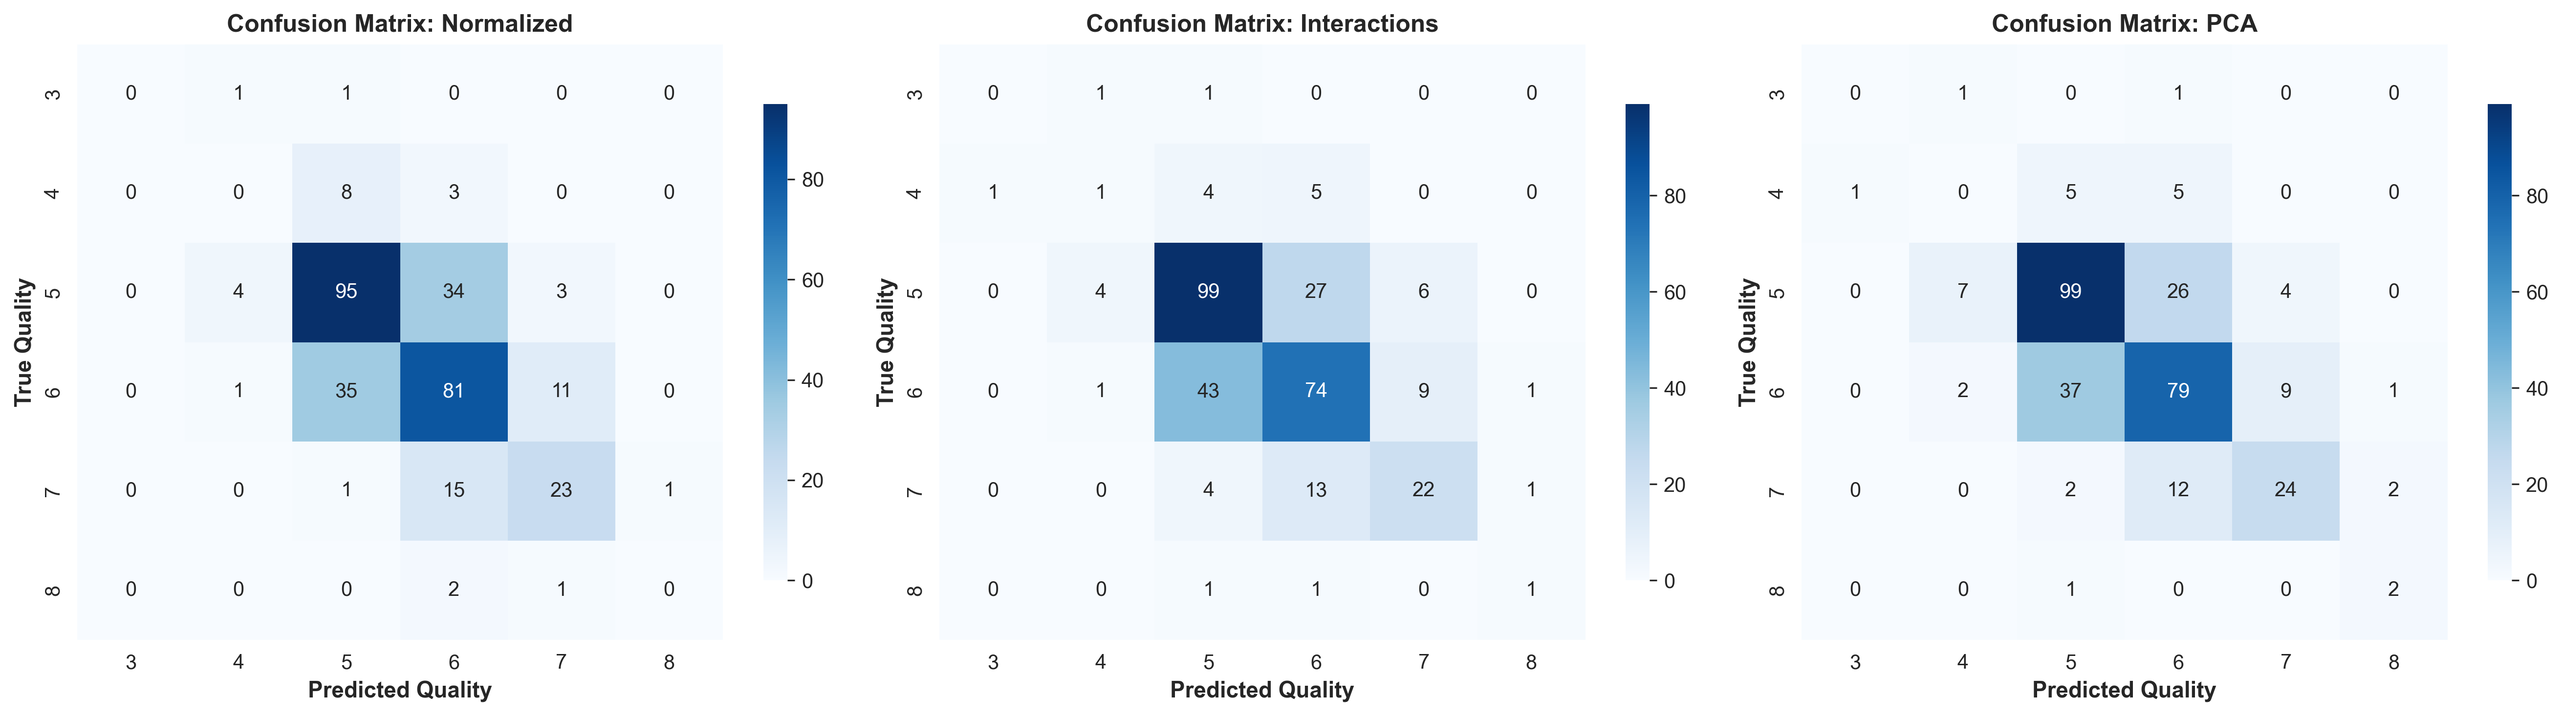
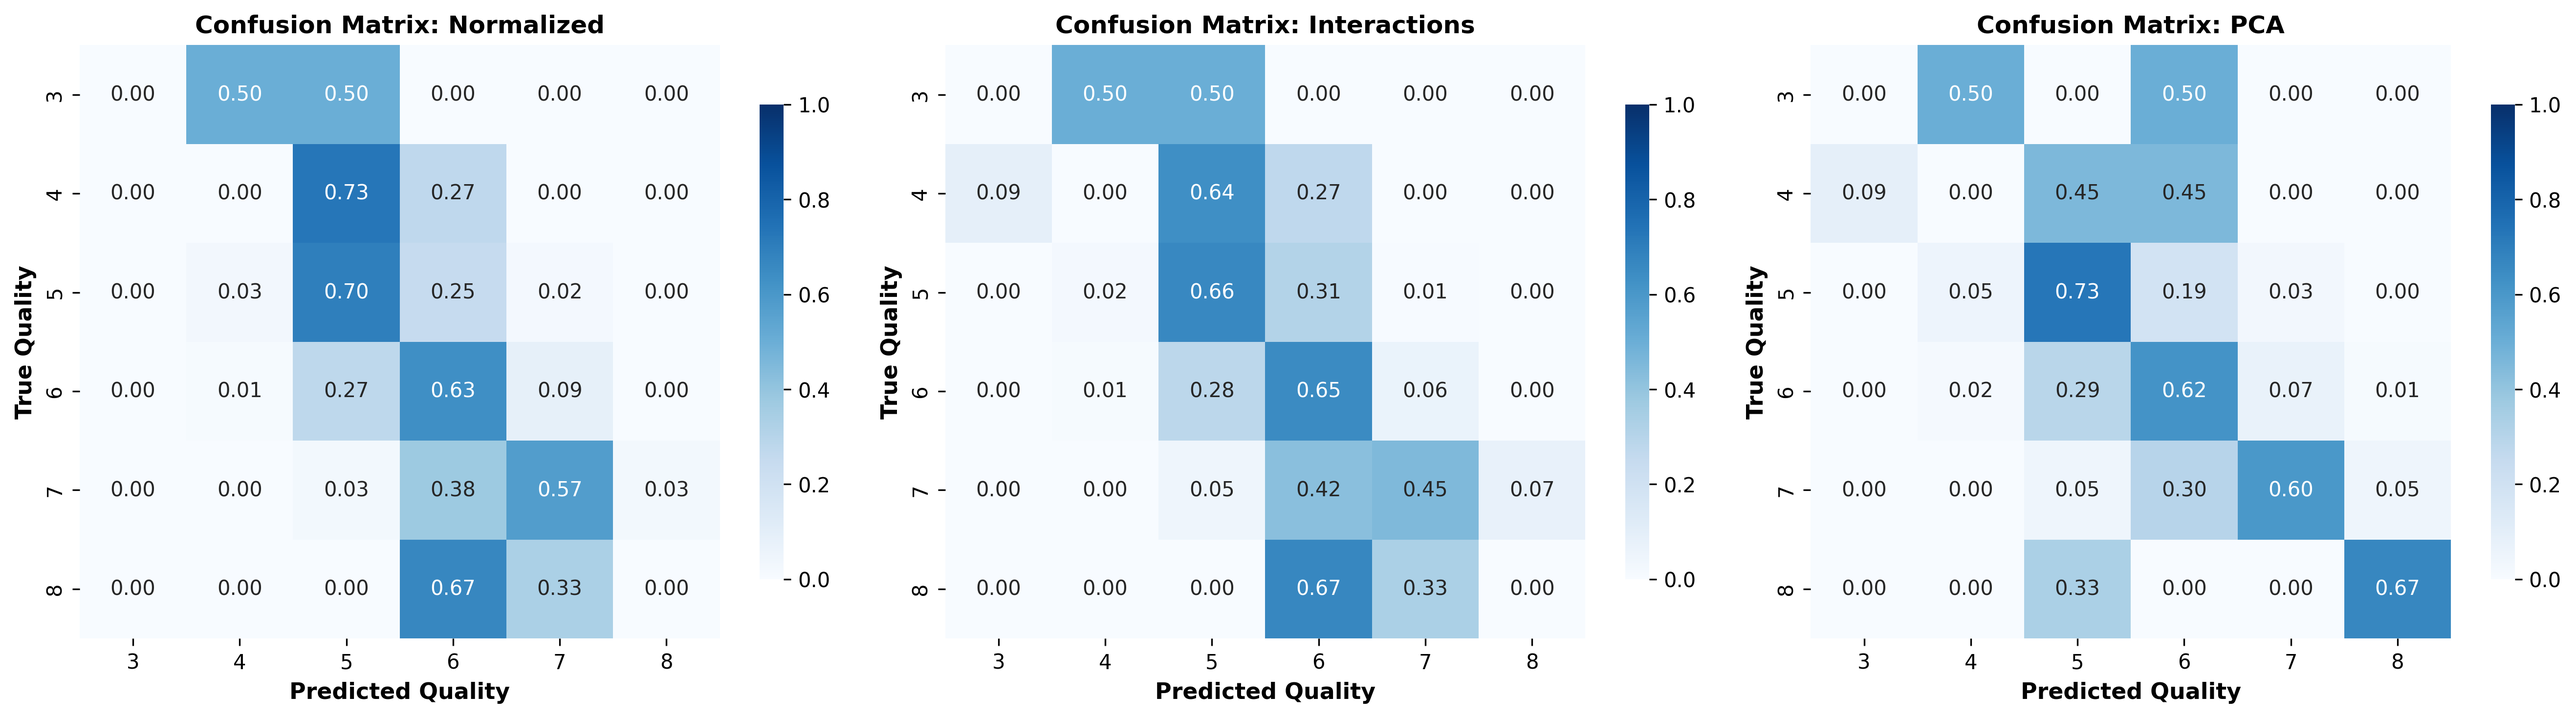
code de svm con mas kernels

diff --git a/report/svm_model_report.md b/report/svm_model_report.md
@@ -32,17 +32,26 @@ $$y_i(\boldsymbol{w}^T \boldsymbol{\phi}(\boldsymbol{x}_i) + b) \geq 1 - \xi_i, 
 
 where $C > 0$ is a regularization parameter that controls the trade-off between maximizing the margin and minimizing classification errors.
 
-**Implementation:** We implement SVM using scikit-learn's `SVC` class with a radial basis function (RBF) kernel, defined as $k(\boldsymbol{x}, \boldsymbol{x}') = \exp(-\gamma \|\boldsymbol{x} - \boldsymbol{x}'\|^2)$, which allows for non-linear decision boundaries. For our multi-class wine quality classification problem (6 classes: quality scores 3-8), we use the one-versus-rest (OvR) strategy, training one binary classifier per class.
+We implement SVM using scikit-learn's `SVC` class, evaluating multiple kernel functions to determine the optimal transformation for our data. For our multi-class wine quality classification problem (6 classes: quality scores 3-8), we use the one-versus-rest (OvR) strategy, training one binary classifier per class.
 
 We evaluate SVM performance on three preprocessed datasets: (1) the normalized baseline dataset (11 features), (2) the dataset with interaction features (18 features), and (3) the PCA-transformed dataset (9 principal components retaining 95% variance). For each dataset, we perform an 80-20 train-test split using stratified sampling to preserve class distribution.
 
 Hyperparameter tuning is performed using grid search with 5-fold cross-validation. For each parameter combination, the model is trained on 4 folds and validated on the remaining fold, repeating this process 5 times. The combination yielding the highest average cross-validation macro F1-score is selected as optimal. Grid search optimizes for macro F1-score rather than accuracy to address class imbalance in the dataset. Macro F1-score gives equal weight to all classes, ensuring the model performs well across both majority and minority classes, rather than optimizing primarily for classes 5 and 6 which contain most of the data.
 
-The regularization parameter $C$ is evaluated over $\{0.1, 1, 10, 100\}$, controlling the trade-off between maximizing the margin and minimizing classification errors. Larger values (e.g., 100) penalize misclassifications more heavily, resulting in a smaller margin but fewer training errors, while smaller values (e.g., 0.1) prioritize a larger margin for better generalization.
+The hyperparameters tested using grid search cross-validation are outlined in the table below. We evaluate four kernel types: linear, polynomial, radial basis function (RBF), and sigmoid. The linear kernel creates linear decision boundaries, while polynomial kernels (with degrees 2 and 3) capture polynomial relationships. The RBF kernel, defined as $k(\boldsymbol{x}, \boldsymbol{x}') = \exp(-\gamma \|\boldsymbol{x} - \boldsymbol{x}'\|^2)$, allows for non-linear decision boundaries and is particularly effective for complex, non-linearly separable data. The sigmoid kernel uses a hyperbolic tangent function and can capture non-linear patterns similar to neural networks.
 
-The kernel parameter $\gamma$ is evaluated over $\{\text{'scale'}, \text{'auto'}, 0.001, 0.01, 0.1, 1\}$, determining the influence of training examples on the decision boundary. When $\gamma = \text{'scale'}$, it is computed as $\gamma = 1/(n_{\text{features}} \times \text{var}(X))$, adapting to both dimensionality and data scale. When $\gamma = \text{'auto'}$, it is set to $\gamma = 1/n_{\text{features}}$, considering only the number of features. Numeric values are fixed, with larger values (e.g., 1) creating more complex, localized boundaries and smaller values (e.g., 0.001) producing smoother, more generalized boundaries.
+The regularization parameter $C$ controls the trade-off between maximizing the margin and minimizing classification errors. Larger values (e.g., 100) penalize misclassifications more heavily, resulting in a smaller margin but fewer training errors, while smaller values (e.g., 0.1) prioritize a larger margin for better generalization. The kernel parameter $\gamma$ (for polynomial, RBF, and sigmoid kernels) determines the influence of training examples on the decision boundary. When $\gamma = \text{'scale'}$, it is computed as $\gamma = 1/(n_{\text{features}} \times \text{var}(X))$, adapting to both dimensionality and data scale. When $\gamma = \text{'auto'}$, it is set to $\gamma = 1/n_{\text{features}}$, considering only the number of features. Numeric values are fixed, with larger values (e.g., 1) creating more complex, localized boundaries and smaller values (e.g., 0.001) producing smoother, more generalized boundaries. For polynomial kernels, the degree parameter controls the polynomial order (2 or 3).
 
-This parameter grid results in $4 \times 6 = 24$ unique combinations evaluated per dataset. The best model from cross-validation is evaluated on the held-out test set. Performance is assessed using accuracy, macro F1-score, precision, recall, and confusion matrices, with both test set and cross-validation results (mean macro F1-score ± standard deviation) reported to assess model stability.
+**SVM Hyperparameter**
+
+| Hyperparameter | Definition/Purpose | Tested Values |
+|---------------|-------------------|---------------|
+| kernel | Type of kernel function used for decision boundaries. Linear creates linear boundaries, polynomial captures polynomial relationships, RBF allows non-linear boundaries, sigmoid uses hyperbolic tangent. | 'linear', 'poly', 'rbf', 'sigmoid' |
+| C | Regularization parameter controlling the trade-off between maximizing the margin and minimizing classification errors. Larger values penalize misclassifications more heavily. | 0.1, 1, 10, 100 |
+| gamma | Kernel coefficient determining the influence of training examples on the decision boundary (for poly, rbf, sigmoid kernels). 'scale' adapts to dimensionality and data scale, 'auto' considers only number of features. | 'scale', 'auto', 0.001, 0.01, 0.1, 1 (for rbf); 'scale', 'auto', 0.001, 0.01, 0.1 (for poly, sigmoid) |
+| degree | Polynomial degree for polynomial kernel. Higher degrees create more complex decision boundaries. | 2, 3 (for poly kernel only) |
+
+This parameter grid evaluates multiple kernel types with their respective hyperparameters, resulting in hundreds of unique combinations per dataset. The best model from cross-validation is evaluated on the held-out test set. Performance is assessed using accuracy, macro F1-score, precision, recall, and confusion matrices, with both test set and cross-validation results (mean macro F1-score ± standard deviation) reported to assess model stability.
 
 # Section 4: Results and Analysis
 
@@ -52,17 +61,19 @@ We evaluate SVM performance across three preprocessed datasets to assess the imp
 
 **Table 1: SVM Performance Comparison Across Datasets**
 
-| Dataset | Accuracy | Macro F1-Score | CV Macro F1 (mean ± std) | Best C | Best gamma |
-|---------|----------|----------------|---------------------------|--------|------------|
-| Normalized | 0.622 | 0.316 | 0.363 ± 0.061 | 10 | 0.1 |
-| PCA | 0.638 | 0.410 | 0.364 ± 0.081 | 100 | auto |
-| Interactions | 0.616 | 0.383 | 0.349 ± 0.081 | 100 | 0.1 |
+| Dataset | Accuracy | Macro F1-Score | CV Macro F1 (mean ± std) | Best Kernel | Best C | Best gamma | Best degree |
+|---------|----------|----------------|---------------------------|-------------|--------|------------|-------------|
+| Normalized | 0.622 | 0.316 | 0.363 ± 0.061 | rbf | 10 | 0.1 | N/A |
+| PCA | 0.638 | 0.410 | 0.364 ± 0.081 | rbf | 100 | auto | N/A |
+| Interactions | 0.597 | 0.299 | 0.355 ± 0.053 | poly | 10 | auto | 2 |
 
-The PCA-transformed dataset achieves the highest macro F1-score of 0.410, followed by the interactions dataset (0.383) and the normalized baseline (0.316). The macro F1-score calculates the F1-score for each class independently and then averages them with equal weight, making it particularly important for imbalanced datasets as it ensures all classes contribute equally to the overall metric. This optimization strategy prioritizes balanced performance across all quality classes rather than maximizing accuracy on the majority classes (5 and 6).
+We evaluated four kernel types (linear, polynomial, RBF, and sigmoid) for each dataset. The optimal kernel varied across datasets: RBF kernel achieved the best performance for both the normalized and PCA datasets, while the polynomial kernel (degree 2) performed best for the interactions dataset. This suggests that different feature representations benefit from different kernel transformations. The RBF kernel's ability to create flexible non-linear decision boundaries is particularly effective for the normalized and PCA datasets, while the polynomial kernel's capacity to capture polynomial relationships between features proves more suitable for the interactions dataset, which explicitly encodes multiplicative feature interactions.
 
-While PCA achieves the best macro F1-score, it also shows higher variability in cross-validation results (standard deviation of 0.081). The normalized dataset provides the most stable performance (standard deviation of 0.061), though with lower macro F1-score. The interactions dataset shows intermediate performance in both macro F1-score and stability (standard deviation of 0.081).
+The PCA-transformed dataset achieves the highest macro F1-score of 0.410, followed by the normalized baseline (0.316) and the interactions dataset (0.299). The macro F1-score calculates the F1-score for each class independently and then averages them with equal weight, making it particularly important for imbalanced datasets as it ensures all classes contribute equally to the overall metric. This optimization strategy prioritizes balanced performance across all quality classes rather than maximizing accuracy on the majority classes (5 and 6).
 
-The optimal hyperparameters vary across datasets: PCA and interactions both benefit from stronger regularization ($C=100$), while normalized performs best with moderate regularization ($C=10$). For the $\gamma$ parameter, normalized uses $\gamma=0.1$, interactions uses $\gamma=0.1$, and PCA uses $\gamma=\text{'auto'}$, which automatically sets $\gamma = 1/n_{\text{features}}$ based on the number of features. A detailed analysis of class-wise performance, including confusion matrices, is provided in the appendix (Figure A1).
+While PCA achieves the best macro F1-score, it also shows higher variability in cross-validation results (standard deviation of 0.081). The normalized dataset provides the most stable performance (standard deviation of 0.061), though with lower macro F1-score. The interactions dataset shows the most stable cross-validation performance (standard deviation of 0.053), but achieves the lowest macro F1-score.
+
+The optimal hyperparameters vary across datasets: PCA benefits from stronger regularization ($C=100$), while normalized and interactions perform best with moderate regularization ($C=10$). For the $\gamma$ parameter, normalized uses $\gamma=0.1$, while both PCA and interactions use $\gamma=\text{'auto'}$, which automatically sets $\gamma = 1/n_{\text{features}}$ based on the number of features. The interactions dataset's optimal polynomial kernel uses degree 2, indicating that quadratic relationships between interaction features are most effective for classification. A detailed analysis of class-wise performance, including confusion matrices, is provided in the appendix (Figure A1).
 
 \newpage
 
@@ -76,8 +87,8 @@ The optimal hyperparameters vary across datasets: PCA and interactions both bene
 
 The confusion matrices reveal consistent patterns across all three datasets. The model performs well on the majority classes (quality 5 and 6), which together represent approximately 82% of the dataset. However, the model struggles significantly with minority classes (quality 3, 4, and 8), achieving near-zero precision and recall for these classes. This reflects the class imbalance inherent in the dataset, where quality scores 3, 4, and 8 represent only 0.6%, 3.3%, and 1.1% of samples, respectively.
 
-For the normalized dataset, the model correctly classifies approximately 70% of quality 5 samples and 63% of quality 6 samples. The PCA dataset shows similar performance with approximately 73% correct classifications for quality 5 and 62% for quality 6, and achieves the best performance for quality 7 with 60% correct classifications. The interactions dataset correctly classifies approximately 73% of quality 5 samples and 58% of quality 6 samples.
+For the normalized dataset (RBF kernel), the model correctly classifies 70% of quality 5 samples and 63% of quality 6 samples. The PCA dataset (RBF kernel) achieves the best performance for quality 5 with 73% correct classifications, followed by 62% for quality 6, and 60% for quality 7. The interactions dataset (polynomial kernel, degree 2) correctly classifies 66% of quality 5 samples and 65% of quality 6 samples, but shows lower performance for quality 7 with 45% correct classifications.
 
-A common pattern across all datasets is confusion between adjacent quality levels, particularly between classes 5 and 6. The normalized dataset misclassifies approximately 25% of true quality 5 samples as quality 6, and 27% of true quality 6 samples as quality 5. The PCA dataset shows approximately 19% misclassifications of quality 5 as 6, and 29% misclassifications of quality 6 as 5. The interactions dataset exhibits the highest confusion between these classes, with approximately 20% misclassifications of quality 5 as 6, and 34% misclassifications of quality 6 as 5. This pattern suggests that distinguishing between adjacent quality levels remains challenging even with macro F1 optimization.
+A common pattern across all datasets is confusion between adjacent quality levels, particularly between classes 5 and 6. The normalized dataset misclassifies 25% of true quality 5 samples as quality 6, and 27% of true quality 6 samples as quality 5. The PCA dataset shows 19% misclassifications of quality 5 as 6, and 29% misclassifications of quality 6 as 5. The interactions dataset exhibits the highest confusion between these classes, with 31% misclassifications of quality 5 as 6, and 28% misclassifications of quality 6 as 5. This pattern suggests that distinguishing between adjacent quality levels remains challenging even with macro F1 optimization.
 
-The model's conservative predictions for class 7 (approximately 55-60% correct classifications across datasets) further highlight the challenge of distinguishing between adjacent quality levels. Classes 3, 4, and 8 show near-complete misclassification, with most instances being predicted as adjacent classes (primarily 4, 5, or 6).
+The model's performance for class 7 varies across datasets: the normalized dataset achieves 58% correct classifications, the PCA dataset achieves 60%, while the interactions dataset shows lower performance at 45%. Classes 3, 4, and 8 show near-complete misclassification, with most instances being predicted as adjacent classes (primarily 4, 5, or 6). Notably, the PCA dataset achieves 67% correct classification for quality 8 (2 out of 3 samples), though this result should be interpreted cautiously given the very small sample size.
